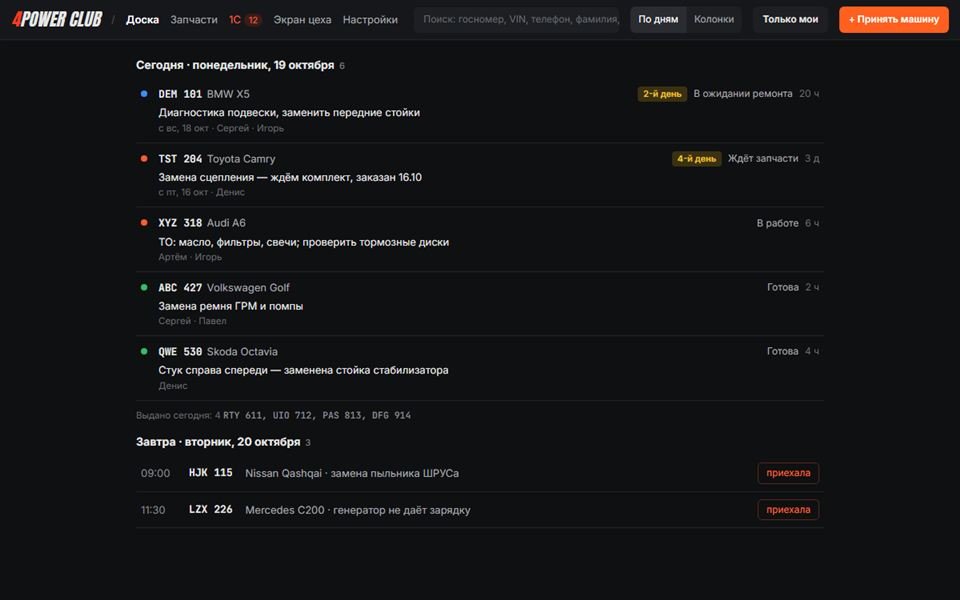
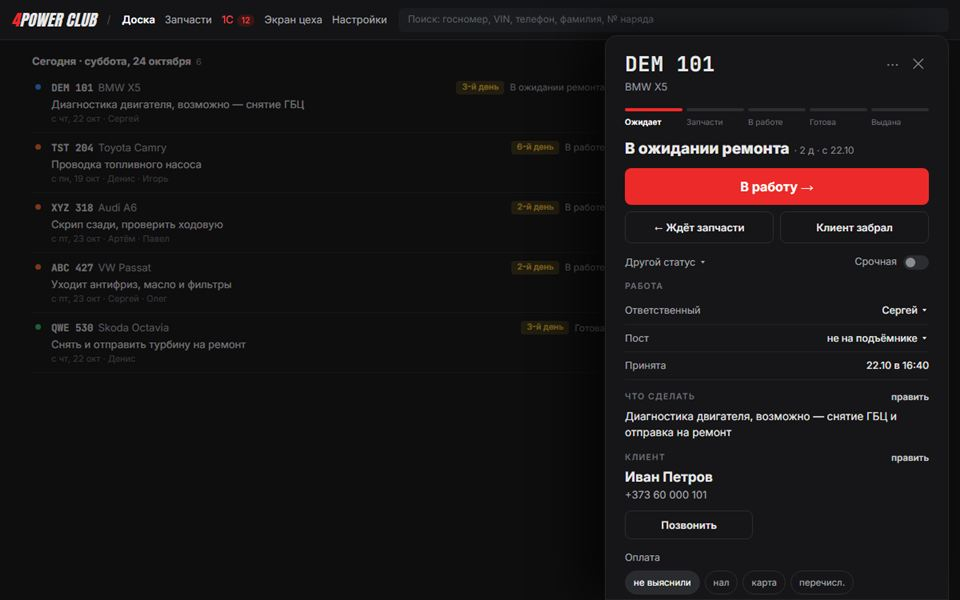
4Power CRM: картинка с новой карточкой машины (вымышленные данные), версия файла против кэша

diff --git a/tools/crm-shot.html b/tools/crm-shot.html
@@ -1,43 +1,62 @@
 <!doctype html>
 <!--
-  Макет экрана «Доска · По дням» системы 4Power CRM — для картинки в карточке на сайте.
-  ВСЕ ДАННЫЕ ВЫМЫШЛЕННЫЕ: госномера, машины, имена и задачи придуманы.
-  Настоящие данные клиентов и сотрудников сервиса сюда не попадают (закон о персональных данных).
+  Макет экрана 4Power CRM для картинки в карточке на сайте: доска «По дням» и открытая
+  НОВАЯ карточка машины справа (вид с 23.10.2026: полоса статусов, одна главная кнопка,
+  «шаг назад», «Клиент забрал», блоки «Работа», «Что сделать», «Клиент», «Оплата»).
+  ВСЕ ДАННЫЕ ВЫМЫШЛЕННЫЕ: госномера, машины, имена, телефон и задачи придуманы.
+  Настоящие данные клиентов и сотрудников сюда не попадают (закон о персональных данных).
   PNG делает tools/build_images.ps1 → assets/products/crm.jpg (960×600).
 -->
 <html lang="ru">
 <head>
   <meta charset="utf-8">
-  <link rel="stylesheet" href="https://fonts.googleapis.com/css2?family=Anton&family=Inter:wght@400;500;600;700&family=JetBrains+Mono:wght@600;700&display=swap">
+  <link rel="stylesheet" href="https://fonts.googleapis.com/css2?family=Anton&family=Inter:wght@400;500;600;700;800&family=JetBrains+Mono:wght@600;700&display=swap">
   <style>
-    html, body { margin: 0; width: 1200px; height: 750px; overflow: hidden; background: #0f1012; color: #e6e6e6; font: 400 13px/1.4 Inter, system-ui, sans-serif; }
+    html, body { margin: 0; width: 1200px; height: 750px; overflow: hidden; background: #0e0e0f; color: #e6e6e6; font: 400 13px/1.4 Inter, system-ui, sans-serif; }
     * { box-sizing: border-box; }
-    .top { display: flex; align-items: center; gap: 14px; height: 50px; padding: 0 14px; background: #16171a; border-bottom: 1px solid #24262b; }
-    .logo { font: 400 21px/1 Anton, sans-serif; font-style: italic; letter-spacing: .3px; }
-    .logo b { color: #ff3b1f; font-weight: 400; }
+    :root { --red: #ec2a2a; }
+    /* ---------- Шапка ---------- */
+    .top { display: flex; align-items: center; gap: 14px; height: 50px; padding: 0 14px; background: #141416; border-bottom: 1px solid #222326; }
+    .logo { font: 400 20px/1 Anton, sans-serif; font-style: italic; letter-spacing: .3px; white-space: nowrap; }
+    .logo b { color: var(--red); font-weight: 400; }
     .sep { color: #555; }
-    .nav { display: flex; gap: 14px; color: #a9abb0; }
+    .nav { display: flex; gap: 12px; color: #a9abb0; white-space: nowrap; }
     .nav .on { color: #fff; font-weight: 600; }
-    .nav .onec { color: #ff5f3f; }
-    .nav .onec i { font-style: normal; font-size: 11px; padding: 1px 6px; margin-left: 4px; border-radius: 9px; background: #3a1d18; }
-    .search { flex: 1; min-width: 0; white-space: nowrap; overflow: hidden; height: 32px; margin-left: 6px; padding: 0 12px; display: flex; align-items: center; border-radius: 6px; background: #1d1f23; color: #6c6f75; font-size: 12px; }
-    .seg { display: flex; border-radius: 6px; overflow: hidden; background: #1d1f23; font-size: 12px; }
-    .seg span { padding: 8px 10px; color: #a9abb0; } .seg .on { background: #2a2c31; color: #fff; }
-    .btn { padding: 8px 12px; border-radius: 6px; background: #1d1f23; font-size: 12px; font-weight: 600; }
-    .btn.acc { background: #ff5f1f; color: #fff; }
-    main { width: 860px; margin: 0 auto; padding: 18px 0; }
-    h2 { margin: 6px 0 10px; font: 700 14px/1 Inter; } h2 small { margin-left: 6px; color: #7d8086; font-weight: 500; font-size: 11px; }
-    .car { display: grid; grid-template-columns: 14px 1fr auto; gap: 2px 8px; padding: 10px 6px; border-bottom: 1px solid #22242a; }
-    .dot { width: 8px; height: 8px; margin-top: 5px; border-radius: 50%; }
-    .blue { background: #3d8bff; } .red { background: #ff5a2d; } .green { background: #2fbf6a; }
-    .head { font-size: 13px; } .plate { font: 700 13px/1.4 "JetBrains Mono", monospace; margin-right: 6px; } .model { color: #a9abb0; }
-    .task { grid-column: 2; margin-top: 2px; } .meta { grid-column: 2; color: #6f7278; font-size: 11.5px; }
-    .st { grid-row: 1; grid-column: 3; display: flex; align-items: center; gap: 8px; color: #a9abb0; font-size: 12px; }
-    .days { padding: 2px 7px; border-radius: 4px; background: #3a3112; color: #f2c230; font-size: 11px; font-weight: 600; }
-    .t { color: #6f7278; }
-    .issued { margin: 10px 0 18px; color: #6f7278; font-size: 11.5px; } .issued b { font: 600 11.5px "JetBrains Mono"; color: #8a8d93; }
-    .appt { display: grid; grid-template-columns: 50px auto 1fr auto; align-items: center; gap: 10px; padding: 9px 6px; border-bottom: 1px solid #22242a; }
-    .appt .tm { color: #8a8d93; } .appt .arr { padding: 4px 10px; border: 1px solid #5a2a1c; border-radius: 5px; color: #ff6a3a; font-size: 12px; }
+    .nav .onec { color: #ff4d4d; } .nav .onec i { font-style: normal; font-size: 10.5px; padding: 1px 6px; margin-left: 4px; border-radius: 9px; background: #3a1616; }
+    .search { flex: 1; min-width: 0; height: 30px; padding: 0 12px; display: flex; align-items: center; white-space: nowrap; overflow: hidden; border-radius: 6px; background: #1b1c1f; color: #5f6166; font-size: 12px; }
+    /* ---------- Доска (за карточкой, приглушена) ---------- */
+    .board { position: absolute; top: 50px; left: 0; width: 760px; padding: 16px 0 0 40px; opacity: .45; }
+    h2 { margin: 4px 0 8px; font: 700 13px/1 Inter; } h2 small { margin-left: 6px; color: #7d8086; font-weight: 500; font-size: 11px; }
+    .car { display: grid; grid-template-columns: 12px 1fr auto; gap: 2px 8px; padding: 9px 4px; border-bottom: 1px solid #1f2023; }
+    .dot { width: 7px; height: 7px; margin-top: 5px; border-radius: 50%; } .blue { background: #3d8bff; } .orange { background: #ff6a2d; } .green { background: #2fbf6a; }
+    .plate { font: 700 12.5px/1.4 "JetBrains Mono", monospace; margin-right: 6px; } .model { color: #a9abb0; }
+    .task { grid-column: 2; } .meta { grid-column: 2; color: #6f7278; font-size: 11px; }
+    .st { grid-row: 1; grid-column: 3; display: flex; align-items: center; gap: 7px; color: #a9abb0; font-size: 11.5px; }
+    .days { padding: 1px 7px; border-radius: 4px; background: #3a3112; color: #f2c230; font-size: 10.5px; font-weight: 600; }
+    /* ---------- Новая карточка машины (панель справа) ---------- */
+    .card { position: absolute; top: 44px; right: 14px; bottom: 0; width: 430px; padding: 22px 24px; border-radius: 14px 14px 0 0; background: #161618; border: 1px solid #26272a; box-shadow: -30px 0 60px #000a; }
+    .c-head { display: flex; justify-content: space-between; }
+    .c-plate { font: 700 26px/1 "JetBrains Mono", monospace; letter-spacing: .5px; }
+    .c-model { margin-top: 6px; color: #9a9ca1; }
+    .c-tools { color: #8a8c91; font-size: 18px; letter-spacing: 6px; }
+    /* Полоса статусов: текущий сегмент красный */
+    .flow { display: grid; grid-template-columns: repeat(5, 1fr); gap: 5px; margin: 18px 0 6px; }
+    .flow i { height: 4px; border-radius: 2px; background: #2c2d31; } .flow i.on { background: var(--red); }
+    .flow-l { display: grid; grid-template-columns: repeat(5, 1fr); gap: 5px; font-size: 10px; color: #6f7278; } .flow-l b { color: #fff; font-weight: 600; }
+    .c-status { margin: 16px 0 12px; font: 800 19px/1.2 Inter; } .c-status small { font: 400 12px Inter; color: #8a8c91; margin-left: 6px; }
+    .main-btn { display: grid; place-items: center; height: 46px; border-radius: 8px; background: var(--red); color: #fff; font: 700 16px Inter; }
+    .two { display: grid; grid-template-columns: 1fr 1fr; gap: 8px; margin-top: 8px; }
+    .two span { display: grid; place-items: center; height: 40px; border-radius: 8px; border: 1px solid #2c2d31; font-weight: 600; }
+    .row { display: flex; justify-content: space-between; align-items: center; margin: 14px 0 6px; color: #a9abb0; font-size: 12.5px; }
+    .tg { width: 32px; height: 18px; border-radius: 9px; background: #2c2d31; position: relative; display: inline-block; vertical-align: middle; margin-left: 8px; }
+    .tg::after { content: ""; position: absolute; left: 3px; top: 3px; width: 12px; height: 12px; border-radius: 50%; background: #8a8c91; }
+    .sec { margin: 16px 0 8px; font: 600 10.5px/1 Inter; letter-spacing: .1em; text-transform: uppercase; color: #6f7278; display: flex; justify-content: space-between; }
+    .sec a { color: #cfd0d3; letter-spacing: 0; text-transform: none; font-size: 11.5px; }
+    .kv { display: flex; justify-content: space-between; padding: 8px 0; border-bottom: 1px solid #222326; font-size: 12.5px; color: #a9abb0; } .kv b { color: #e6e6e6; font-weight: 500; }
+    .todo { font-size: 13.5px; line-height: 1.5; }
+    .client { font: 700 17px/1.2 Inter; } .phone { margin-top: 3px; color: #a9abb0; }
+    .call { display: inline-grid; place-items: center; width: 160px; height: 36px; margin-top: 10px; border-radius: 8px; border: 1px solid #2c2d31; font-weight: 600; }
+    .pay { display: flex; gap: 6px; margin-top: 8px; } .pay span { padding: 6px 10px; border-radius: 999px; border: 1px solid #2c2d31; font-size: 11.5px; color: #a9abb0; } .pay .on { background: #2a2b2f; color: #fff; }
   </style>
 </head>
 <body>
@@ -45,20 +64,37 @@
     <span class="logo"><b>4</b>POWER CLUB</span><span class="sep">/</span>
     <span class="nav"><span class="on">Доска</span><span>Запчасти</span><span class="onec">1С<i>12</i></span><span>Экран цеха</span><span>Настройки</span></span>
     <span class="search">Поиск: госномер, VIN, телефон, фамилия, № наряда</span>
-    <span class="seg"><span class="on">По дням</span><span>Колонки</span></span>
-    <span class="btn">Только мои</span><span class="btn acc">+ Принять машину</span>
   </div>
-  <main>
-    <h2>Сегодня · понедельник, 19 октября<small>6</small></h2>
-    <div class="car"><i class="dot blue"></i><div class="head"><span class="plate">DEM 101</span><span class="model">BMW X5</span></div><div class="st"><span class="days">2-й день</span>В ожидании ремонта <span class="t">20 ч</span></div><div class="task">Диагностика подвески, заменить передние стойки</div><div class="meta">с вс, 18 окт · Сергей · Игорь</div></div>
-    <div class="car"><i class="dot red"></i><div class="head"><span class="plate">TST 204</span><span class="model">Toyota Camry</span></div><div class="st"><span class="days">4-й день</span>Ждёт запчасти <span class="t">3 д</span></div><div class="task">Замена сцепления — ждём комплект, заказан 16.10</div><div class="meta">с пт, 16 окт · Денис</div></div>
-    <div class="car"><i class="dot red"></i><div class="head"><span class="plate">XYZ 318</span><span class="model">Audi A6</span></div><div class="st">В работе <span class="t">6 ч</span></div><div class="task">ТО: масло, фильтры, свечи; проверить тормозные диски</div><div class="meta">Артём · Игорь</div></div>
-    <div class="car"><i class="dot green"></i><div class="head"><span class="plate">ABC 427</span><span class="model">Volkswagen Golf</span></div><div class="st">Готова <span class="t">2 ч</span></div><div class="task">Замена ремня ГРМ и помпы</div><div class="meta">Сергей · Павел</div></div>
-    <div class="car"><i class="dot green"></i><div class="head"><span class="plate">QWE 530</span><span class="model">Skoda Octavia</span></div><div class="st">Готова <span class="t">4 ч</span></div><div class="task">Стук справа спереди — заменена стойка стабилизатора</div><div class="meta">Денис</div></div>
-    <p class="issued">Выдано сегодня: 4 <b>RTY 611, UIO 712, PAS 813, DFG 914</b></p>
-    <h2>Завтра · вторник, 20 октября<small>3</small></h2>
-    <div class="appt"><span class="tm">09:00</span><span class="plate">HJK 115</span><span class="model">Nissan Qashqai · замена пыльника ШРУСа</span><span class="arr">приехала</span></div>
-    <div class="appt"><span class="tm">11:30</span><span class="plate">LZX 226</span><span class="model">Mercedes C200 · генератор не даёт зарядку</span><span class="arr">приехала</span></div>
-  </main>
+
+  <div class="board">
+    <h2>Сегодня · суббота, 24 октября<small>6</small></h2>
+    <div class="car"><i class="dot blue"></i><div><span class="plate">DEM 101</span><span class="model">BMW X5</span></div><div class="st"><span class="days">3-й день</span>В ожидании ремонта</div><div class="task">Диагностика двигателя, возможно — снятие ГБЦ</div><div class="meta">с чт, 22 окт · Сергей</div></div>
+    <div class="car"><i class="dot orange"></i><div><span class="plate">TST 204</span><span class="model">Toyota Camry</span></div><div class="st"><span class="days">6-й день</span>В работе</div><div class="task">Проводка топливного насоса</div><div class="meta">с пн, 19 окт · Денис · Игорь</div></div>
+    <div class="car"><i class="dot orange"></i><div><span class="plate">XYZ 318</span><span class="model">Audi A6</span></div><div class="st"><span class="days">2-й день</span>В работе</div><div class="task">Скрип сзади, проверить ходовую</div><div class="meta">с пт, 23 окт · Артём · Павел</div></div>
+    <div class="car"><i class="dot orange"></i><div><span class="plate">ABC 427</span><span class="model">VW Passat</span></div><div class="st"><span class="days">2-й день</span>В работе</div><div class="task">Уходит антифриз, масло и фильтры</div><div class="meta">с пт, 23 окт · Сергей · Олег</div></div>
+    <div class="car"><i class="dot green"></i><div><span class="plate">QWE 530</span><span class="model">Skoda Octavia</span></div><div class="st"><span class="days">3-й день</span>Готова</div><div class="task">Снять и отправить турбину на ремонт</div><div class="meta">с чт, 22 окт · Денис</div></div>
+  </div>
+
+  <!-- Открытая карточка машины DEM 101 -->
+  <aside class="card">
+    <div class="c-head"><div><div class="c-plate">DEM 101</div><div class="c-model">BMW X5</div></div><div class="c-tools">⋯ ✕</div></div>
+    <div class="flow"><i class="on"></i><i></i><i></i><i></i><i></i></div>
+    <div class="flow-l"><b>Ожидает</b><span>Запчасти</span><span>В работе</span><span>Готова</span><span>Выдана</span></div>
+    <div class="c-status">В ожидании ремонта<small>· 2 д · с 22.10</small></div>
+    <div class="main-btn">В работу →</div>
+    <div class="two"><span>← Ждёт запчасти</span><span>Клиент забрал</span></div>
+    <div class="row"><span>Другой статус ▾</span><span>Срочная<i class="tg"></i></span></div>
+    <div class="sec">Работа</div>
+    <div class="kv"><span>Ответственный</span><b>Сергей ▾</b></div>
+    <div class="kv"><span>Пост</span><b>не на подъёмнике ▾</b></div>
+    <div class="kv"><span>Принята</span><b>22.10 в 16:40</b></div>
+    <div class="sec">Что сделать <a>править</a></div>
+    <div class="todo">Диагностика двигателя, возможно — снятие ГБЦ и отправка на ремонт</div>
+    <div class="sec">Клиент <a>править</a></div>
+    <div class="client">Иван Петров</div><div class="phone">+373 60 000 101</div>
+    <span class="call">Позвонить</span>
+    <div class="row" style="margin-top:14px"><span>Оплата</span></div>
+    <div class="pay"><span class="on">не выяснили</span><span>нал</span><span>карта</span><span>перечисл.</span></div>
+  </aside>
 </body>
 </html>

diff --git a/index.html b/index.html
@@ -388,7 +388,7 @@
             </article>
             <article class="prod prod--offer">
               <!-- Макет экрана «Доска · По дням» на ВЫМЫШЛЕННЫХ данных (tools/crm-shot.html) — реальных клиентов тут нет -->
-              <img class="prod-shot" src="assets/products/crm.jpg" alt="Доска машин 4Power CRM по дням — демо-данные" width="960" height="600" loading="lazy" decoding="async">
+              <img class="prod-shot" src="assets/products/crm.jpg?v=2" alt="Доска машин 4Power CRM по дням — демо-данные" width="960" height="600" loading="lazy" decoding="async">
               <div class="prod-top"><span class="tag-offer">Для автосервисов</span><a class="prod-link" href="#case-4power">кейс ↑</a></div>
               <h4 class="prod-name">4Power CRM</h4>
               <p class="prod-what">Управление автосервисом поверх 1С</p>

diff --git a/ro/index.html b/ro/index.html
@@ -388,7 +388,7 @@
             </article>
             <article class="prod prod--offer">
               <!-- Макет экрана «Доска · По дням» на ВЫМЫШЛЕННЫХ данных (tools/crm-shot.html) — реальных клиентов тут нет -->
-              <img class="prod-shot" src="../assets/products/crm.jpg" alt="Panoul de mașini 4Power CRM pe zile — date demonstrative" width="960" height="600" loading="lazy" decoding="async">
+              <img class="prod-shot" src="../assets/products/crm.jpg?v=2" alt="Panoul de mașini 4Power CRM pe zile — date demonstrative" width="960" height="600" loading="lazy" decoding="async">
               <div class="prod-top"><span class="tag-offer">Pentru service-uri auto</span><a class="prod-link" href="#case-4power">proiectul ↑</a></div>
               <h4 class="prod-name">4Power CRM</h4>
               <p class="prod-what">Management de service auto peste 1C</p>

diff --git a/en/index.html b/en/index.html
@@ -388,7 +388,7 @@
             </article>
             <article class="prod prod--offer">
               <!-- Макет экрана «Доска · По дням» на ВЫМЫШЛЕННЫХ данных (tools/crm-shot.html) — реальных клиентов тут нет -->
-              <img class="prod-shot" src="../assets/products/crm.jpg" alt="4Power CRM car board by day — demo data" width="960" height="600" loading="lazy" decoding="async">
+              <img class="prod-shot" src="../assets/products/crm.jpg?v=2" alt="4Power CRM car board by day — demo data" width="960" height="600" loading="lazy" decoding="async">
               <div class="prod-top"><span class="tag-offer">For car workshops</span><a class="prod-link" href="#case-4power">case study ↑</a></div>
               <h4 class="prod-name">4Power CRM</h4>
               <p class="prod-what">Workshop management on top of 1C</p>
